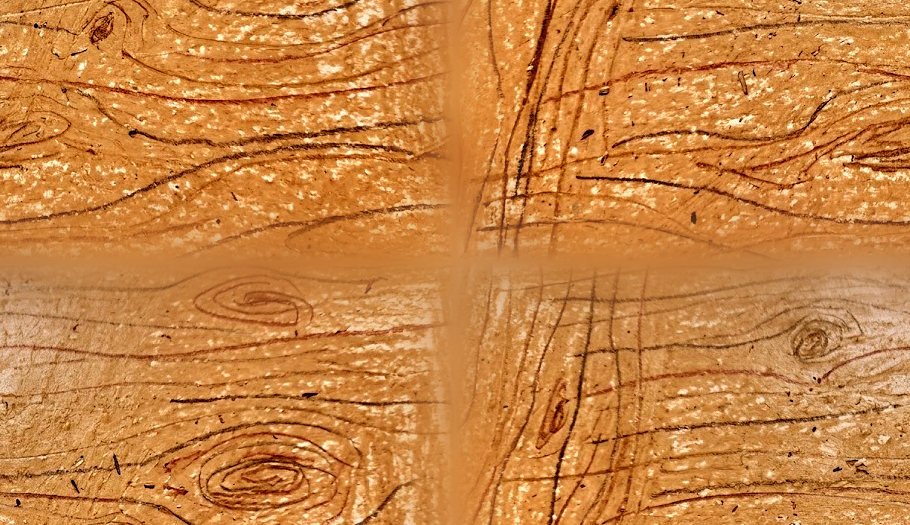
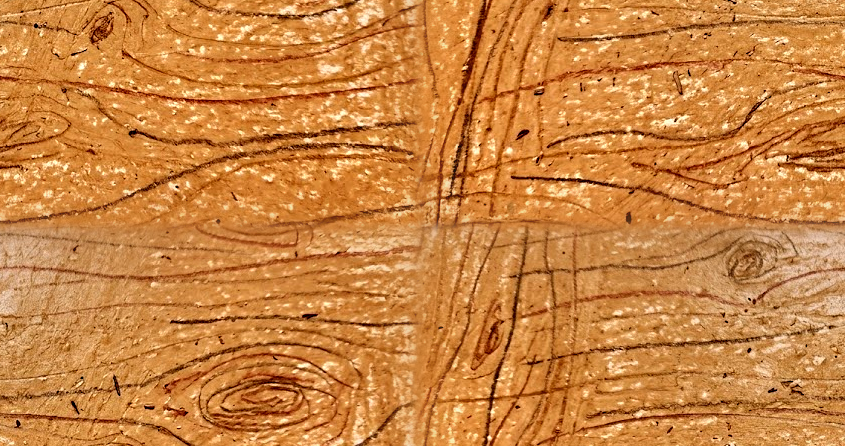
Folio desk: one scrolling column of books, full-width seamless wood, no voiced welcome
- Remove the welcome line lettered on the bare wood (and its Welcome occasion).
- Drop the 'Reading now' / 'Also on the desk' headers and the post-it variant: every book is a cover with its index card beside it, running books first.
- The empty-desk voiced line now sits on an index card.
- Desk tile spans the full width in one copy; the baked-in blurred cross was cut out of the tile and re-joined with a narrow cross-fade.

Claude-Session: https://claude.ai/code/session_0126iSyjPqPv3DFTFveP3DEK

diff --git a/Storyboarder/Folio.Android/Pages/MainPage.xaml.cs b/Storyboarder/Folio.Android/Pages/MainPage.xaml.cs
@@ -32,7 +32,6 @@ public partial class MainPage : FolioBinderPage
     private string emptyDeskLine = string.Empty;
     private readonly Dictionary<Guid, NovelStatus> statuses = [];
     private IDispatcherTimer? refreshTimer;
-    private string voice = string.Empty;
 
     public MainPage()
     {
@@ -57,7 +56,6 @@ public partial class MainPage : FolioBinderPage
         LastRunLabel.Text = SettingsStore.LastRunSummary;
 
         _ = RefreshAsync();
-        _ = ShowWelcomeAsync();
 
         refreshTimer = Dispatcher.CreateTimer();
         refreshTimer.Interval = TimeSpan.FromSeconds(5);
@@ -161,36 +159,6 @@ public partial class MainPage : FolioBinderPage
         {
             // Voiced copy is layered over neutral copy; a failure here leaves the desk exactly as drawn.
         }
-    }
-
-    // A greeting written in the owner's voice, composed fresh each time the page appears. Shown only when a
-    // voice profile has been learned; otherwise VoicedMessenger returns the empty fallback and the line
-    // stays hidden rather than showing generic copy. Never blocks or crashes the page.
-    private async Task ShowWelcomeAsync()
-    {
-        if (!SettingsStore.IsConfigured)
-        {
-            voice = string.Empty;
-            Redraw();
-            return;
-        }
-
-        string message;
-        try
-        {
-            var messenger = IPlatformApplication.Current!.Services.GetRequiredService<VoicedMessenger>();
-            var context = rows.Count == 0 ? "no manuscripts yet" : $"{rows.Count} manuscript(s) under review";
-            message = await messenger.ComposeAsync(
-                new MessageRequest(VoicedOccasions.Welcome, context, HighVisibility: true),
-                fallback: string.Empty, CancellationToken.None);
-        }
-        catch
-        {
-            message = string.Empty;
-        }
-
-        voice = message;
-        Redraw();
     }
 
     /// <summary>
@@ -417,8 +385,8 @@ public partial class MainPage : FolioBinderPage
     };
 
     /// <summary>
-    /// Lays the desk out from what is on it: the book being read now with its details on a note
-    /// card, then the ones waiting with their state on a post-it.
+    /// Lays the desk out from what is on it: a scrolling column of books, each with its details on an
+    /// index card beside it.
     ///
     /// <para>Rebuilt whole on each refresh rather than diffed. The list it replaced diffed because a
     /// CollectionView scrolls and loses its place when its items are swapped; a desk is a handful of
@@ -435,44 +403,28 @@ public partial class MainPage : FolioBinderPage
 
         if (onDesk.Count == 0)
         {
-            Desk.Add(new Label
+            // On a card, never on the bare wood: muted ink on the plank is unreadable (DeskDrawable).
+            Desk.Add(DeskPaper.Card(new Label
             {
                 Text = string.IsNullOrWhiteSpace(emptyDeskLine)
                     ? "Nothing on the desk. Add a manuscript and Folio starts reading."
                     : emptyDeskLine,
                 Style = PaperResources.Token<Style>("EmptyStateLabel"),
-            });
+            }));
             return;
         }
 
-        // What is being read is whatever is still running; failing that, a book that has stopped and needs
-        // the owner (it must not hide among the others); failing that, the newest thing here.
-        var reading =
-            onDesk.FirstOrDefault(pair => Active(pair.Status) && !pair.Status.NeedsAttention) is { Status: not null } running
-                ? running
-                : onDesk.FirstOrDefault(pair => Active(pair.Status)) is { Status: not null } stopped
-                    ? stopped
-                    : onDesk[0];
+        // One row per book, each a cover with its index card beside it — no headings, no second kind
+        // of entry. Order is the only thing that says what matters: whatever is still running first,
+        // then a book that has stopped and needs the owner (it must not hide among the others), then
+        // the rest as they came.
+        var ordered = onDesk
+            .OrderBy(pair => Active(pair.Status) && !pair.Status.NeedsAttention ? 0 : Active(pair.Status) ? 1 : 2)
+            .ToList();
 
-        Desk.Add(DeskPaper.Strip(reading.Row.Heading));
-        Desk.Add(Hero(reading.Row, reading.Status));
-
-        if (!string.IsNullOrWhiteSpace(voice))
+        for (var i = 0; i < ordered.Count; i++)
         {
-            Desk.Add(new Label
-            {
-                Text = voice,
-                Style = PaperResources.Token<Style>("VoiceLabel"),
-                Margin = new Thickness(2, 16, 2, 0),
-            });
-        }
-
-        var waiting = onDesk.Where(pair => pair.Row.Id != reading.Row.Id).ToList();
-        if (waiting.Count > 0)
-        {
-            Desk.Add(new BoxView { HeightRequest = 16, Color = Colors.Transparent });
-            Desk.Add(DeskPaper.Strip("Also on the desk"));
-            Desk.Add(Waiting(waiting));
+            Desk.Add(BookRow(ordered[i].Row, ordered[i].Status, i));
         }
 
         Desk.Add(new GraphicsView
@@ -487,7 +439,11 @@ public partial class MainPage : FolioBinderPage
     private static bool Active(NovelStatus status) =>
         status.Stage is not ("Completed" or "Failed" or "Cancelled");
 
-    private View Hero(ProjectRow row, NovelStatus status)
+    // Tilts cycle so a stack of books looks laid down by hand rather than ruled.
+    private static readonly double[] CoverTilts = [-1.6, 1.4, -0.9, 1.1];
+    private static readonly double[] CardTilts = [0.8, -0.7, 0.6, -0.9];
+
+    private View BookRow(ProjectRow row, NovelStatus status, int index)
     {
         // The facts first and always: what the book is doing, and — in red — what is wrong with it. The
         // owner's voice is a note under them, never a replacement for them (it used to replace them, and
@@ -526,17 +482,17 @@ public partial class MainPage : FolioBinderPage
         }
 
         var card = DeskPaper.Card([.. lines]);
-        card.Rotation = 0.8;
+        card.Rotation = CardTilts[index % CardTilts.Length];
         card.VerticalOptions = LayoutOptions.Start;
 
         var grid = new Grid
         {
             ColumnDefinitions = [new ColumnDefinition(GridLength.Auto), new ColumnDefinition(GridLength.Star)],
             ColumnSpacing = 14,
-            Margin = new Thickness(0, 4, 0, 0),
+            Margin = new Thickness(0, index == 0 ? 4 : 18, 0, 0),
         };
 
-        var cover = new FlatBook(row.Title, Jacket(status), 118, 148, tilt: -1.6)
+        var cover = new FlatBook(row.Title, Jacket(status), 118, 148, tilt: CoverTilts[index % CoverTilts.Length])
         {
             VerticalOptions = LayoutOptions.Start,
         };
@@ -547,35 +503,6 @@ public partial class MainPage : FolioBinderPage
         Grid.SetColumn(cover, 0);
         Grid.SetColumn(card, 1);
         return grid;
-    }
-
-    private View Waiting(IReadOnlyList<(ProjectRow Row, NovelStatus Status)> books)
-    {
-        var tilts = new[] { 1.4, -2.2, 0.9 };
-        var noteTilts = new[] { -1.8, 1.2, -0.9 };
-        var strip = new HorizontalStackLayout { Spacing = 11, Margin = new Thickness(0, 10, 0, 0) };
-
-        for (var i = 0; i < books.Count; i++)
-        {
-            var (row, status) = books[i];
-            var note = DeskPaper.PostIt(
-                row.Title,
-                string.IsNullOrWhiteSpace(row.Problem) ? row.Summary : $"{row.Summary}\n{row.Problem}",
-                PaperResources.Colour(status.NeedsAttention || !string.IsNullOrWhiteSpace(row.Problem) ? "ProblemMark" : "InkSoft"));
-            note.Rotation = noteTilts[i % noteTilts.Length];
-
-            var cover = new FlatBook(row.Title, Jacket(status), 88, 110, tilts[i % tilts.Length]);
-            Press(cover, status);
-
-            strip.Children.Add(new VerticalStackLayout
-            {
-                WidthRequest = 88,
-                Spacing = 7,
-                Children = { cover, note },
-            });
-        }
-
-        return strip;
     }
 
     /// <summary>

diff --git a/Storyboarder/Folio.Android/Pages/DeskDrawable.cs b/Storyboarder/Folio.Android/Pages/DeskDrawable.cs
@@ -17,11 +17,11 @@ namespace Folio.Android.Pages;
 ///
 /// <para><b>The wood is the owner's own hand-drawn crayon-and-pencil wood grain</b> — a photo of a real
 /// drawing (crayon-colored ground, loose wobbly wood-grain lines sketched over it in colored pencil),
-/// cropped to just the drawn area and tiled rather than stretched (<c>Assets/desk-wood-tile.png</c>):
+/// cropped to just the drawn area and tiled vertically at full width (<c>Assets/desk-wood-tile.png</c>):
 /// one small image repeated across the well, the same cached-and-reused shape as
 /// <c>Storyworthtelling.Paper.PaperGrain</c>'s shader tile, so the desk stays consistent with
 /// DESIGN.md §2 rather than embedding one giant per-screen raster. The source photo's own uneven
-/// lighting was flattened and its edges healed for seamless repetition (an image model was tried
+/// lighting was flattened and its edges healed for seamless repetition (the heal is a narrow cross-fade, not a wide blur, so no smeared cross runs through the wood) (an image model was tried
 /// first and kept returning a clean engraved-line illustration no prompt could talk it out of — this
 /// is the owner's real drawing instead). It is loaded once from the native Android asset (this head
 /// has no <c>&lt;SingleProject&gt;</c>, so MAUI's <c>Resources/Raw</c> convention is not reliable here
@@ -31,29 +31,23 @@ namespace Folio.Android.Pages;
 /// </summary>
 public sealed class DeskDrawable : IDrawable
 {
-    /// <summary>
-    /// The tile's on-screen width in device-independent units, at the source photo's own aspect
-    /// ratio (910×525). Fixed rather than derived from the source image's pixel size, so the grain
-    /// reads at desk scale (close to <see cref="DeskFillerDrawable"/>'s own pencil-and-cup scale)
-    /// regardless of how large the photographed tile itself is.
-    /// </summary>
-    private const float TileWidth = 340f;
-    private const float TileHeight = TileWidth * 525f / 910f;
-
+    // The tile is scaled so that ONE copy spans the whole width of the well, at the image's own
+    // aspect ratio. Horizontally it therefore never repeats at all (there is no vertical seam to see),
+    // and the only repeat left is the vertical one, whose top and bottom edges join each other.
     private static readonly Lazy<Microsoft.Maui.Graphics.IImage?> Tile = new(LoadTile);
 
     public void Draw(ICanvas canvas, RectF dirtyRect)
     {
-        if (Tile.Value is { } tile)
+        if (Tile.Value is { } tile && tile.Width > 0)
         {
+            var width = dirtyRect.Width;
+            var height = width * tile.Height / tile.Width;
+
             canvas.SaveState();
             canvas.ClipRectangle(dirtyRect);
-            for (var y = dirtyRect.Top; y < dirtyRect.Bottom; y += TileHeight)
+            for (var y = dirtyRect.Top; y < dirtyRect.Bottom; y += height)
             {
-                for (var x = dirtyRect.Left; x < dirtyRect.Right; x += TileWidth)
-                {
-                    canvas.DrawImage(tile, x, y, TileWidth, TileHeight);
-                }
+                canvas.DrawImage(tile, dirtyRect.Left, y, width, height);
             }
             canvas.RestoreState();
             return;

diff --git a/Storyboarder/Folio.Domain/Voice/VoicedOccasions.cs b/Storyboarder/Folio.Domain/Voice/VoicedOccasions.cs
@@ -15,9 +15,6 @@ namespace Folio.Domain.Voice;
 /// </summary>
 public static class VoicedOccasions
 {
-    /// <summary>The line at the top of the desk when the app opens.</summary>
-    public const string Welcome = "welcome";
-
     /// <summary>A book's own line on the desk, about how far along it is.</summary>
     public const string DeskLine = "a one-line note on the desk about how this book is coming along";
 
@@ -27,5 +24,5 @@ public static class VoicedOccasions
     /// </summary>
     public const string EmptyDesk = "a line for an empty desk, inviting a first manuscript";
 
-    public static IReadOnlyList<string> All { get; } = [Welcome, DeskLine, EmptyDesk];
+    public static IReadOnlyList<string> All { get; } = [DeskLine, EmptyDesk];
 }
